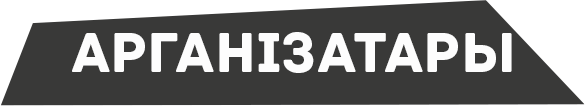
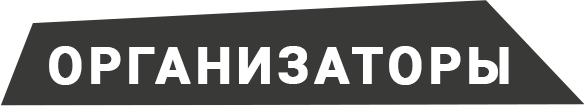
w07.07

Changed region(s): [[0.0615, 0.283, 0.8923, 0.8208]]

diff --git a/index.html b/index.html
@@ -1,1 +1,1 @@
-<!DOCTYPE html><html lang="ru"><head><meta charset="utf-8"><title>Лидбир 2018. Купить билет на автобус из Минска и на концерт в Лиде можно тут</title><link href="https://fonts.googleapis.com/css?family=Roboto:300,400,500,600,900&amp;amp;subset=cyrillic-ext" rel="stylesheet"><!--link(href="https://fonts.googleapis.com/icon?family=Material+Icons" rel="stylesheet")--><meta name="viewport" content="width=device-width,minimum-scale=1,initial-scale=1"><meta name="description" content="Все о фестивале Лидбир который будет проходить 8 сентября 2018 в Лиде"><link rel="stylesheet" href="template/style.css"><script src="template/js/lazysizes.min.js"></script><script src="template/js/ls.unveilhooks.min.js"></script><script src="template/js/custom.js" async defer></script></head><body><header><div class="logo"><img src="template/img/limberi_logo.svg" width="95"></div><div class="nav"><ul><li><a href="/">Главная</a></li><li><a href="/vehicles.html">Авто</a></li><li><a href="#">F.A.Q.</a></li><li><a href="#">Контакты</a></li></ul><div class="bars"><div></div><div></div><div></div></div></div><div class="tel"><ul><li> <a href="tel:+375291387747">+375 29 138 77 47</a></li></ul></div></header><div class="ticket-modal"><span class="close">&times;</span><iframe class="lazyload" width="100%" height="99%" data-src="https://shop.piletilevi.ee/public/?concert=256378&amp;shop_provider=kvldbr&amp;design=btb&amp;lang=rus&amp;center=1873&amp;sdc=1#view=ticketsselect"></iframe></div><div class="bus-modal"><span class="close">&times;</span><div class="inner"><p>Contrary to popular belief, Lorem Ipsum is not simply random text. It has roots in a piece of classical Latin literature from 45 BC, making it over 2000 years old. Richard McClintock, a Latin professor at Hampden-Sydney College in Virginia, looked up one of the more obscure Latin words, consectetur, from a Lorem Ipsum passage, and going through the cites of the word in classical literature, discovered the undoubtable source. Lorem Ipsum comes from sections 1.10.32 and 1.10.33 of "de Finibus Bonorum et Malorum" (The Extremes of Good and Evil) by Cicero, written in 45 BC. This book is a treatise on the theory of ethics, very popular during the Renaissance. The first line of Lorem Ipsum, "Lorem ipsum dolor sit amet..", comes from a line in section 1.10.32.		</p></div></div><div class="wrap"><div class="screen1"><img class="lazyload main1" data-src="template/img/main.png"><img class="lazyload buy_button" data-src="template/img/button.png"><img class="lazyload shapes" data-src="template/img/shapes.png"><img class="lazyload bus-order" data-src="template/img/bus-order.png"><div class="social"><a href="#" target="_blank"><img class="lazyload vk" data-src="template/img/vk.png"></a><a href="#" target="_blank"><img class="lazyload fb" data-src="template/img/fb.png"></a><a href="#" target="_blank"><img class="lazyload inst" data-src="template/img/inst.png"></a></div></div><div class="screen2"><img class="lazyload" data-src="template/img/lidbeer2018_label.png"><p>НЕЎЗАБАВЕ!</p><p>LIDBEER — адзін з самых буйных, гучных і душэўных опэн-эйраў Беларусі. Гасцей фестывалю чакаюць піваварныя традыціі рэгіёна, забавы, гульні, агромністы фудкорт і толькі якасная музыка. На адзін дзень уся Ліда стане фестывальная пляцоўкай!</p><p>Уваход на LIDBEER вольны!</p><p>Асобная зона фестывалю — пляцоўка гала-канцэрта. На яе тэрыторыі размяшчаецца спецыяльны фудкорт, асобныя забавы і маштабная сцэна cлавутымі хэдлайнерамі.</p><img class="lazyload black_shapes" data-src="template/img/black_shapes.png"><p class="bold">LIDBEER ЧАКАЕ ЦЯБЕ!</p><img class="lazyload" data-src="template/img/orgs.png"><img class="lazyload" data-src="template/img/org_item.png"></div></div></body>
+<!DOCTYPE html><html lang="ru"><head><meta charset="utf-8"><title>Лидбир 2018. Купить билет на автобус из Минска и на концерт в Лиде можно тут</title><link href="https://fonts.googleapis.com/css?family=Roboto:300,400,500,600,900&amp;amp;subset=cyrillic-ext" rel="stylesheet"><!--link(href="https://fonts.googleapis.com/icon?family=Material+Icons" rel="stylesheet")--><meta name="viewport" content="width=device-width,minimum-scale=1,initial-scale=1"><meta name="description" content="Все о фестивале Лидбир который будет проходить 8 сентября 2018 в Лиде"><link rel="stylesheet" href="template/style.css"><script src="template/js/lazysizes.min.js"></script><script src="template/js/ls.unveilhooks.min.js"></script><script src="template/js/custom.js" async defer></script></head><body><header><div class="logo"><img src="template/img/limberi_logo.svg" width="95"></div><div class="nav"><ul><li><a href="/">Главная</a></li><li><a href="/vehicles.html">Авто</a></li><li><a href="#">F.A.Q.</a></li><li><a href="#">Контакты</a></li></ul><div class="bars"><div></div><div></div><div></div></div></div><div class="tel"><ul><li> <a href="tel:+375291387747">+375 29 138 77 47</a></li></ul></div></header><div class="ticket-modal"><span class="close">&times;</span><iframe class="lazyload" width="100%" height="99%" data-src="https://shop.piletilevi.ee/public/?concert=256378&amp;shop_provider=kvldbr&amp;design=btb&amp;lang=rus&amp;center=1873&amp;sdc=1#view=ticketsselect"></iframe></div><div class="bus-modal"><span class="close">&times;</span><div class="inner"><h3>Цена билета на автобус - 20 BYN (10$)</h3><p> <i>автобус вас довезет до Лиды, подождет окончания концерта и отвезет обратно в Минск</i></p><p><b>Дата, время и место выезда: </b>08.09.2018 (Сб) в 10:00, 10:30, 11:00 выезд от ДС Дружная</p><p><b>Способ оплаты:</b> только через интернет-банк (в крайнем случае приходите в офис на Сухаревскую, 70, п. 10, офис 14н. Перед приездом звоните +375 29 138 77 47)</p><a href="https://docs.google.com/spreadsheets/d/1AIg1SOhrnnmj7PeN9AJ7L5pCV6vOxgUDKOAkO49YMl4/edit#gid=0" target="_blank"><button>Инструкция по оплате</button></a><p>После оплаты Вы присылаете на вайбер или почту свои паспортные данные. Мы готовим договор оказания туристических услуг. Ваш экземпляр договора передаем вам в автобусе.</p><p>Прибытие в Лиду через 2,5 - 3 часа после выезда из Минска. Автобус в Лиде будет находиться на парковке недалеко от места проведения концерта. Начало гала-концерта в 17:30. По окончании фестиваля - отправление в Минск. Автобус <b>долго</b> вас ждать <b>не будет</b>. Признак окончания фестиваля - <b>фейерверк</b>. Увидели цветные огонёчки в небе - быстро идем в автобус. Опоздуны добираются самостоятельно утром на маршрутках. Претензии по этому вопросу не принимаются ни в какой форме.</p><p>Прибытие в Минск 9.09 рано-рано утром, часов в 4-5. Метро и наземный транспорт еще ходить не будут. Думаем как добраться до дома, т.к. развоза по городу не будет.</p></div></div><div class="wrap"><div class="screen1"><img class="lazyload main1" data-src="template/img/main.png"><img class="lazyload buy_button" data-src="template/img/button.png"><img class="lazyload shapes" data-src="template/img/shapes.png"><img class="lazyload bus-order" data-src="template/img/bus-order.png"><div class="social"><a href="#" target="_blank"><img class="lazyload vk" data-src="template/img/vk.png"></a><a href="#" target="_blank"><img class="lazyload fb" data-src="template/img/fb.png"></a><a href="#" target="_blank"><img class="lazyload inst" data-src="template/img/inst.png"></a></div></div><div class="screen2"><img class="lazyload" data-src="template/img/lidbeer2018_label.png"><p>В БЛИЖАЙШЕЕ ВРЕМЯ!</p><p>LIDBEER – один из самых масштабных, громких и душевных оупен-эйров Беларуси. Гостей фестиваля ждут пивоварные традиции региона, развлечения, игры, огромный фудкорт и только качественная музыка. На один день вся Лида станет фестивальной площадкой!</p><p>Вход на LIDBEER бесплатный!</p><p>Отдельная зона фестиваля – площадка гала-концерта. На ее территории расположится специальный фудкорт, отдельные развлечения и масштабная сцена известными хедлайнерами.</p><img class="lazyload black_shapes" data-src="template/img/black_shapes.png"><p class="bold">LIDBEER ЖДЕТ ТЕБЯ!</p><img class="lazyload" data-src="template/img/orgs.png"><img class="lazyload" data-src="template/img/org_item.png"><img class="lazyload gala" data-src="template/img/gala.png"><img class="lazyload group" data-src="template/img/group.png"><img class="lazyload buy_button" data-src="template/img/button.png"><img class="lazyload black_shapes" data-src="template/img/black_shapes.png"></div><div class="screen3"><img class="lazyload black_shapes" data-src="template/img/free_scene.png"></div></div></body>

diff --git a/template/style.css b/template/style.css
@@ -1,1 +1,1 @@
-body{margin:0;padding:0;font-family:Roboto,sans-serif;background-image:url(/template/img/bg.jpg)}header{background-color:#343a40;display:-ms-flexbox;display:flex;-ms-flex-pack:center;justify-content:center;position:fixed;top:0;left:0;right:0}@media only screen and (max-width:927px){header{-ms-flex-pack:justify;justify-content:space-between}}header ul{display:-ms-flexbox;display:flex}header ul li{list-style-type:none}header ul li a{text-transform:uppercase;color:#fbba00;font-size:16pt;text-decoration:none;font-weight:900}header ul li a:hover{text-decoration:underline}header .nav{margin:0 5vw}@media only screen and (max-width:927px){header .nav{-ms-flex-order:2;order:2;-ms-flex-item-align:center;-ms-grid-row-align:center;align-self:center}header .nav ul{display:none}}header .nav ul li{margin-left:2em}header .bars div{width:35px;height:5px;background-color:#fbba00;margin:6px 0;display:none}@media only screen and (max-width:927px){header .bars div{display:block}}header .logo{-ms-flex-item-align:center;-ms-grid-row-align:center;align-self:center}@media only screen and (max-width:927px){header .logo{margin-left:1em}}.ticket-modal{display:none;animation-name:animatetop;animation-duration:.4s;position:absolute;left:50%;width:90vw;height:90vh;z-index:1}.ticket-modal iframe{border:0;position:relative;left:-50%;box-shadow:0 4px 8px 0 rgba(0,0,0,.2),0 6px 20px 0 rgba(0,0,0,.19)}.bus-modal span.close,.ticket-modal span.close{font-size:28px;position:relative;left:52%;cursor:pointer;top:1em}.ticket-modal span.close:hover{opacity:.8}@keyframes animatetop{from{top:-300px;opacity:0}to{top:0;opacity:1}}.bus-modal{display:none;position:fixed;left:50%;top:30%;width:40vw;height:50vh;z-index:1}.bus-modal .inner{position:relative;left:-50%;box-shadow:0 4px 8px 0 rgba(0,0,0,.2),0 6px 20px 0 rgba(0,0,0,.19);background-color:#fff}.bus-modal span.close{background-color:#fff;padding:.5rem;box-shadow:0 4px 8px 0 rgba(0,0,0,.2),0 6px 20px 0 rgba(0,0,0,.19)}.wrap .screen1 img.main1{display:block;margin:5em auto}@media only screen and (max-width:927px){.wrap .screen1 img.main1{width:90%}}.wrap .screen1 img.buy_button{width:370px;margin:2em auto;animation:breathing 7s ease-out infinite normal;display:block;cursor:pointer}@keyframes breathing{0%{-ms-transform:scale(.9);transform:scale(.9)}25%{-ms-transform:scale(1);transform:scale(1)}60%{-ms-transform:scale(.9);transform:scale(.9)}100%{-ms-transform:scale(.9);transform:scale(.9)}}.wrap .screen1 img.shapes{display:block;margin:0 auto;width:50px}.wrap .screen1 img.bus-order{display:block;margin:0 auto;cursor:pointer}.wrap .screen1 .social{display:-ms-flexbox;display:flex;-ms-flex-pack:center;justify-content:center}.wrap .screen1 .social img{width:30px;margin-left:1em}.wrap .screen2{margin:5em auto;width:834px;text-align:center}@media only screen and (max-width:834px){.wrap .screen2{width:90%;padding:1em}.wrap .screen2 img:not(.black_shapes){width:80%}}.wrap .screen2 p{font-weight:900;color:#343a40}.wrap .screen2 img{display:inline}
+body{margin:0;padding:0;font-family:Roboto,sans-serif;background-image:url(/template/img/bg.jpg)}header{background-color:#343a40;display:-ms-flexbox;display:flex;-ms-flex-pack:center;justify-content:center;position:fixed;top:0;left:0;right:0;z-index:2}@media only screen and (max-width:927px){header{-ms-flex-pack:justify;justify-content:space-between}}header ul{display:-ms-flexbox;display:flex}header ul li{list-style-type:none}header ul li a{text-transform:uppercase;color:#fbba00;font-size:16pt;text-decoration:none;font-weight:900}header ul li a:hover{text-decoration:underline}@media only screen and (max-width:400px){header .tel{display:none}}header .nav{margin:0 5vw}@media only screen and (max-width:927px){header .nav{-ms-flex-order:2;order:2;-ms-flex-item-align:center;-ms-grid-row-align:center;align-self:center}header .nav ul{position:absolute;top:3.5em;right:0;background:#343a40;margin:0;height:100vh;display:none;width:0;padding-top:2em}header .nav ul li{line-height:3em}header .nav ul div.row hr{border-color:orange;border-width:1px;width:90%}}@media only screen and (max-width:400px){header .nav ul{top:2em}}header .nav ul li{margin-left:2em}header .bars div{width:35px;height:5px;background-color:#fbba00;margin:6px 0;display:none}@media only screen and (max-width:927px){header .bars div{display:block}}header .logo{-ms-flex-item-align:center;-ms-grid-row-align:center;align-self:center}@media only screen and (max-width:927px){header .logo{margin-left:1em}}.ticket-modal{display:none;animation-name:animatetop;animation-duration:.4s;position:fixed;left:50%;width:90vw;height:90vh;z-index:1;top:10em}.ticket-modal iframe{border:0;position:relative;left:-50%;box-shadow:0 4px 8px 0 rgba(0,0,0,.2),0 6px 20px 0 rgba(0,0,0,.19)}.bus-modal span.close,.ticket-modal span.close{background-color:#fff;padding:.4em;top:-2.5em;left:48%;position:absolute;cursor:pointer}.ticket-modal span.close:hover{opacity:.8}@keyframes animatetop{from{top:-300px;opacity:0}to{top:0;opacity:1}}.bus-modal{display:none;position:fixed;left:50%;top:6em;width:40vw;height:50vh;z-index:1}@media only screen and (max-width:927px){.bus-modal{width:90vw;position:absolute}}.bus-modal .inner{position:relative;left:-50%;box-shadow:0 4px 8px 0 rgba(0,0,0,.2),0 6px 20px 0 rgba(0,0,0,.19);background-color:#fff;padding:1em}.bus-modal span.close{background-color:#fff;padding:.5rem;box-shadow:0 4px 8px 0 rgba(0,0,0,.2),0 6px 20px 0 rgba(0,0,0,.19);z-index:1}@media only screen and (max-width:927px){.bus-modal span.close{left:46%;cursor:pointer;top:-1em}}.wrap .screen1 img.main1{display:block;margin:5em auto}@media only screen and (max-width:927px){.wrap .screen1 img.main1{width:90%}}.wrap .screen1 img.buy_button{width:370px;margin:2em auto;animation:breathing 7s ease-out infinite normal;display:block;cursor:pointer}@keyframes breathing{0%{-ms-transform:scale(.9);transform:scale(.9)}25%{-ms-transform:scale(1);transform:scale(1)}60%{-ms-transform:scale(.9);transform:scale(.9)}100%{-ms-transform:scale(.9);transform:scale(.9)}}.wrap .screen1 img.shapes{display:block;margin:0 auto;width:50px}.wrap .screen1 img.bus-order{display:block;margin:0 auto;cursor:pointer}.wrap .screen1 .social{display:-ms-flexbox;display:flex;-ms-flex-pack:center;justify-content:center}.wrap .screen1 .social img{width:30px;margin-left:1em}.wrap .screen2{margin:5em auto;width:834px;text-align:center}@media only screen and (max-width:834px){.wrap .screen2{width:90%;padding:1em}.wrap .screen2 img:not(.black_shapes){width:80%}}.wrap .screen2 p{font-weight:900;color:#343a40}.wrap .screen2 img{display:inline}.wrap .screen2 img.gala{margin:5em auto}.wrap .screen2 img.group{margin-bottom:3em}@keyframes bounce{0%,100%,20%,50%,80%{transform:translateY(0)}40%{transform:translateY(-20px)}60%{transform:translateY(-15px)}}.wrap .screen2 img.buy_button{animation:bounce 2s infinite;cursor:pointer}.wrap .screen2 img.black_shapes{display:block;margin:4em auto}

diff --git a/template/style.less b/template/style.less
@@ -19,6 +19,7 @@ header
 	top: 0;
 	left: 0;
 	right: 0;
+	z-index:2;
 	@media only screen and(max-width:927px)
 	{
 		justify-content: space-between;
@@ -43,6 +44,13 @@ header
 			}
 		}
 	}
+	.tel 
+	{
+		@media only screen and(max-width:400px)
+		{
+			display:none;
+		}
+	}
 
 	.nav
 	{
@@ -55,9 +63,39 @@ header
 
 			ul 
 			{
+			    position: absolute;
+			    top: 3.5em;
+			    right: 0;
+			    background: #343a40;
+			    margin: 0;
+			    height: 100vh;
 				display:none;
+				width:0;
+				padding-top:2em;
+
+				li 
+				{
+					line-height: 3em;
+				}
+
+				div.row hr 
+				{
+				    border-color: orange;
+				    border-width: 1px;
+				    width: 90%;
+
+				}
+
 			}
 		}
+		@media only screen and(max-width:400px)
+		{
+			ul 
+			{
+				top:2em;
+			}
+		}
+
 
 		ul 
 		{
@@ -100,12 +138,13 @@ header
     animation-name: animatetop;
     animation-duration: 0.4s;
 
-    position:absolute;
+    position:fixed;
     left:50%;
 
     width:90vw;
     height:90vh;
     z-index:1;
+    top: 10em;
 
     iframe 
     {
@@ -119,16 +158,18 @@ header
 
 	span.close 
 	{
-	    font-size: 28px;
-		position: relative;
-		left: 52%;
-		cursor: pointer;
-		top: 1em;
+	       background-color: #fff;
+		    padding: .4em;
+		    top: -2.5em;
+		    left: 48%;
+		    position: absolute;
+		    cursor:pointer;
 
 		&:hover
 		{
 			opacity:0.8;
 		}
+
 	}
 }
 
@@ -143,10 +184,15 @@ header
 	display:none;
 	position:fixed;
     left:50%;
-	top:30%;
+	top:6em;
     width:40vw;
     height:50vh;
     z-index:1;
+    @media only screen and(max-width:927px)
+	{
+		width:90vw;
+		position: absolute;
+	}
 
     .inner 
     {
@@ -154,6 +200,7 @@ header
     	left:-50%;
     	box-shadow: 0 4px 8px 0 rgba(0,0,0,0.2),0 6px 20px 0 rgba(0,0,0,0.19);
     	background-color: #fff;
+    	padding:1em;
     }
 
     span.close 
@@ -162,6 +209,13 @@ header
 	    background-color: #fff;
 		padding: 0.5rem;
 		box-shadow: 0 4px 8px 0 rgba(0,0,0,0.2),0 6px 20px 0 rgba(0,0,0,0.19);
+		z-index:1;
+		@media only screen and(max-width:927px)
+		{
+			left: 46%;
+		    cursor: pointer;
+		    top: -1em;
+		}	
     }
 }
 
@@ -289,6 +343,30 @@ header
 			display: inline;
 
 
+		}
+		img.gala
+		{
+			margin:5em auto;
+		}
+		img.group
+		{
+			margin-bottom:3em;
+		}
+
+		@keyframes bounce 
+		{
+		 0%, 20%, 50%, 80%, 100% {transform: translateY(0);}
+		 40% {transform: translateY(-20px);}
+		 60% {transform: translateY(-15px);}
+		}
+		img.buy_button 
+		{
+			animation: bounce 2s infinite;
+			cursor:pointer;
+		}
+		img.black_shapes
+		{
+			display:block; margin:4em auto;
 		}
 	} // .screen2
 }

diff --git a/template/js/custom.js b/template/js/custom.js
@@ -2,14 +2,21 @@
 var modal = document.querySelector('.ticket-modal');
 
 // Get the button that opens the modal
-var btn = document.querySelector(".buy_button");
+var btn = document.querySelectorAll(".buy_button");
 
 // Get the <span> element that closes the modal
 var span = document.querySelector('.ticket-modal span.close');
 
 // When the user clicks on the button, open the modal 
-btn.onclick = function() {
+btn[0].onclick = function() {
     modal.style.display = "block";
+}
+btn[1].onclick = function() {
+    modal.style.display = "block";
+}
+function show_ticket_modal()
+{
+	modal.style.display = "block";
 }
 
 // When the user clicks on <span> (x), close the modal
@@ -31,12 +38,23 @@ if(document.querySelector('.bus-order'))
 		btn = document.querySelector(".bus-order");
 		span = document.querySelector('.bus-modal span.close');
 
-	btn.onclick = function() {
+		//btn.onclick = bus_order();
+		btn.addEventListener('click', bus_order);
+
+	function bus_order () {
 	    bus_modal.style.display = "block";
+	    if(screen.width < 927)
+	    {
+	    	let top = document.querySelector('.bus-order').getBoundingClientRect().top;
+	    	bus_modal.style.top =  top + top*0.2 + 'px';
+	    }
+	    
 	}
 
+
 	// When the user clicks on <span> (x), close the bus_modal
-	span.onclick = function() {
+	span.addEventListener('click', close_bus_modal);
+	function close_bus_modal() {
 	    bus_modal.style.display = "none";
 	}
 
@@ -49,3 +67,37 @@ if(document.querySelector('.bus-order'))
 
 
 }
+
+// open bars menu
+
+var bars = document.querySelector('.bars');
+var opened = false;
+bars.addEventListener('click', close_sidebar);
+function close_sidebar()
+{
+	if(!opened)
+	{
+		bars.previousSibling.style.width = 300 + 'px';
+		bars.previousSibling.style.display = 'inherit';
+		opened = true;
+	} else 
+	{
+		bars.previousSibling.style.display = 'none';
+		opened = false;
+	}
+
+}
+
+// дополнительные пункты меню
+
+if(window.innerWidth < 927)
+	{
+		let div = document.createElement('div');
+		div.className = 'row';
+		div.innerHTML = 
+			'<hr>'
+			+ '<li><a href="#" onclick="bus_order(); close_sidebar()">билет на автобус</li>'
+			+ '<li><a href="#"onclick="show_ticket_modal(); close_sidebar()">билет на концерт</li>'
+			;
+		document.querySelector('.nav ul').appendChild(div);	
+	}
